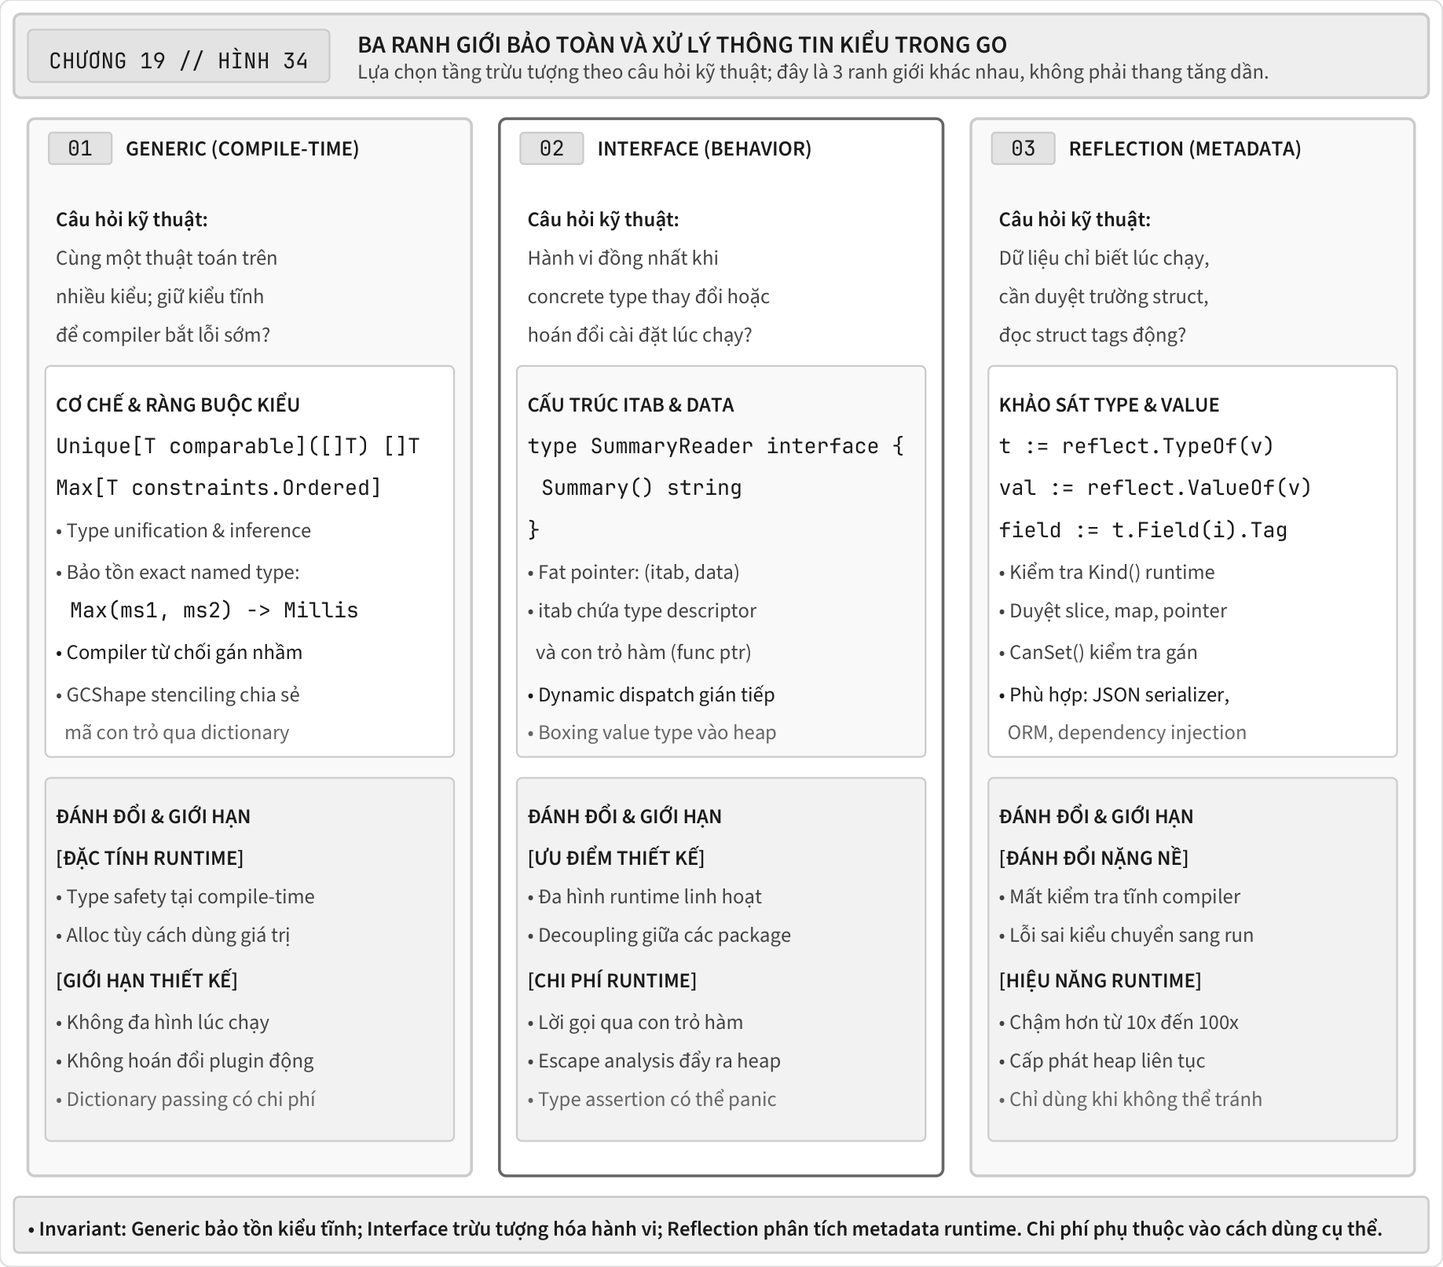
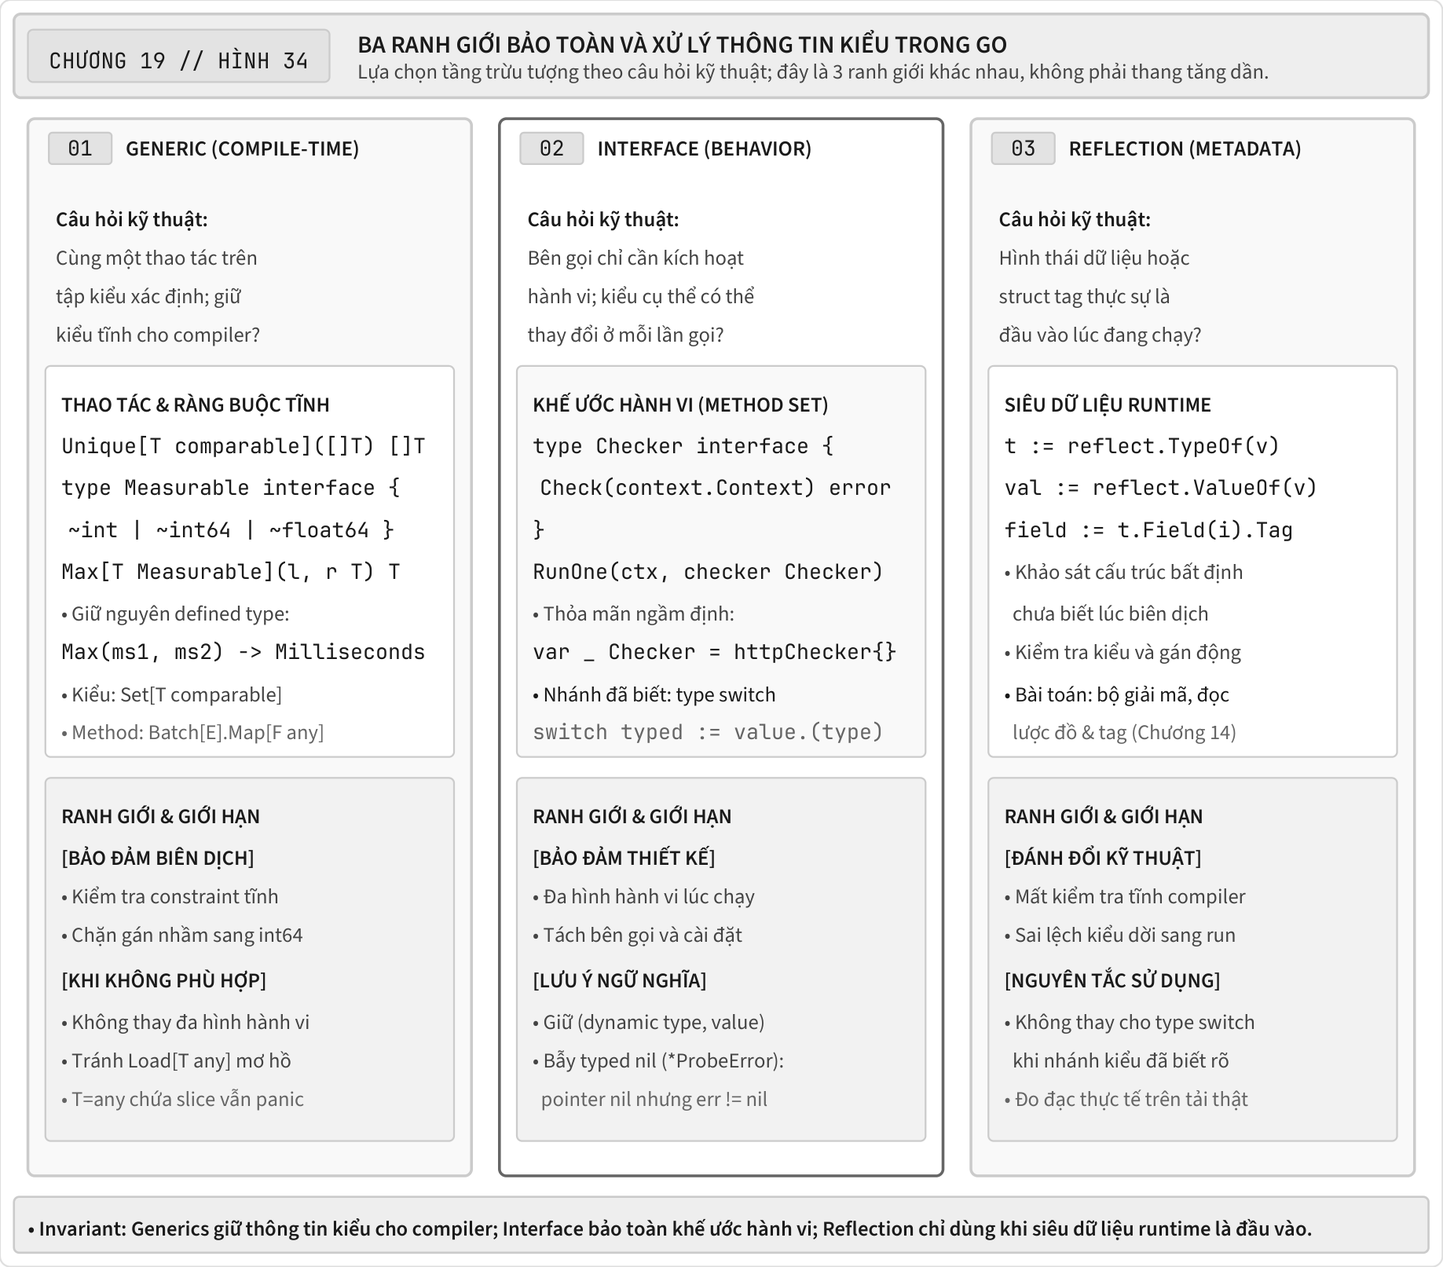
fix(ch19): rebuild Figure 34 (ISS-01) to match Chapter 19 type boundaries and remove unverified claims

diff --git a/scripts/ch19_29_vector_diagrams.py b/scripts/ch19_29_vector_diagrams.py
@@ -361,36 +361,36 @@ def build_type_information_boundaries_drawing(w: float = 413.18, h: float = 362.
     d.add(String(col1_x + 28.0, body_y + body_h - 10.5, "GENERIC (COMPILE-TIME)", fontName="BookSansBold", fontSize=6.1, fillColor=COLOR_INK_DARK))
 
     d.add(String(col1_x + 8.0, body_y + 272.0, "Câu hỏi kỹ thuật:", fontName="BookSansBold", fontSize=6.0, fillColor=COLOR_INK_DARK))
-    d.add(String(col1_x + 8.0, body_y + 261.0, "Cùng một thuật toán trên", fontName="BookSans", fontSize=6.0, fillColor=COLOR_INK_MID))
-    d.add(String(col1_x + 8.0, body_y + 250.0, "nhiều kiểu; giữ kiểu tĩnh", fontName="BookSans", fontSize=6.0, fillColor=COLOR_INK_MID))
-    d.add(String(col1_x + 8.0, body_y + 239.0, "để compiler bắt lỗi sớm?", fontName="BookSans", fontSize=6.0, fillColor=COLOR_INK_MID))
+    d.add(String(col1_x + 8.0, body_y + 261.0, "Cùng một thao tác trên", fontName="BookSans", fontSize=6.0, fillColor=COLOR_INK_MID))
+    d.add(String(col1_x + 8.0, body_y + 250.0, "tập kiểu xác định; giữ", fontName="BookSans", fontSize=6.0, fillColor=COLOR_INK_MID))
+    d.add(String(col1_x + 8.0, body_y + 239.0, "kiểu tĩnh cho compiler?", fontName="BookSans", fontSize=6.0, fillColor=COLOR_INK_MID))
 
     # Box 1A
     b1_h = 112.0
     b1_y = body_y + 120.0
     d.add(Rect(col1_x + 5.0, b1_y, col_w - 10.0, b1_h, fillColor=COLOR_WHITE, strokeColor=COLOR_BORDER, strokeWidth=0.5, rx=1.5, ry=1.5))
-    d.add(String(col1_x + 8.0, b1_y + 99.0, "CƠ CHẾ & RÀNG BUỘC KIỂU", fontName="BookSansBold", fontSize=6.0, fillColor=COLOR_INK_DARK))
-    d.add(String(col1_x + 8.0, b1_y + 87.0, "Unique[T comparable]([]T) []T", fontName="BookMono", fontSize=6.0, fillColor=COLOR_INK_DARK))
-    d.add(String(col1_x + 8.0, b1_y + 75.0, "Max[T constraints.Ordered]", fontName="BookMono", fontSize=6.0, fillColor=COLOR_INK_DARK))
-    d.add(String(col1_x + 8.0, b1_y + 63.0, "• Type unification & inference", fontName="BookSans", fontSize=6.0, fillColor=COLOR_INK_MID))
-    d.add(String(col1_x + 8.0, b1_y + 51.0, "• Bảo tồn exact named type:", fontName="BookSans", fontSize=6.0, fillColor=COLOR_INK_MID))
-    d.add(String(col1_x + 12.0, b1_y + 40.0, "Max(ms1, ms2) -> Millis", fontName="BookMono", fontSize=6.0, fillColor=COLOR_INK_DARK))
-    d.add(String(col1_x + 8.0, b1_y + 28.0, "• Compiler từ chối gán nhầm", fontName="BookSans", fontSize=6.0, fillColor=COLOR_INK_DARK))
-    d.add(String(col1_x + 8.0, b1_y + 16.0, "• GCShape stenciling chia sẻ", fontName="BookSans", fontSize=6.0, fillColor=COLOR_INK_MID))
-    d.add(String(col1_x + 8.0, b1_y + 5.0, "  mã con trỏ qua dictionary", fontName="BookSans", fontSize=6.0, fillColor=COLOR_INK_MUTED))
+    d.add(String(col1_x + 9.5, b1_y + 99.0, "THAO TÁC & RÀNG BUỘC TĨNH", fontName="BookSansBold", fontSize=6.0, fillColor=COLOR_INK_DARK))
+    d.add(String(col1_x + 9.5, b1_y + 87.0, "Unique[T comparable]([]T) []T", fontName="BookMono", fontSize=6.0, fillColor=COLOR_INK_DARK))
+    d.add(String(col1_x + 9.5, b1_y + 75.0, "type Measurable interface {", fontName="BookMono", fontSize=6.0, fillColor=COLOR_INK_DARK))
+    d.add(String(col1_x + 11.5, b1_y + 63.0, "~int | ~int64 | ~float64 }", fontName="BookMono", fontSize=6.0, fillColor=COLOR_INK_DARK))
+    d.add(String(col1_x + 9.5, b1_y + 51.0, "Max[T Measurable](l, r T) T", fontName="BookMono", fontSize=6.0, fillColor=COLOR_INK_DARK))
+    d.add(String(col1_x + 9.5, b1_y + 39.0, "• Giữ nguyên defined type:", fontName="BookSans", fontSize=6.0, fillColor=COLOR_INK_MID))
+    d.add(String(col1_x + 9.5, b1_y + 28.0, "Max(ms1, ms2) -> Milliseconds", fontName="BookMono", fontSize=6.0, fillColor=COLOR_INK_DARK))
+    d.add(String(col1_x + 9.5, b1_y + 16.0, "• Kiểu: Set[T comparable]", fontName="BookSans", fontSize=6.0, fillColor=COLOR_INK_MID))
+    d.add(String(col1_x + 9.5, b1_y + 5.0, "• Method: Batch[E].Map[F any]", fontName="BookSans", fontSize=6.0, fillColor=COLOR_INK_MUTED))
 
     # Box 1B
     b2_h = 104.0
     b2_y = body_y + 10.0
     d.add(Rect(col1_x + 5.0, b2_y, col_w - 10.0, b2_h, fillColor=COLOR_BG_SUBTLE, strokeColor=COLOR_BORDER, strokeWidth=0.5, rx=1.5, ry=1.5))
-    d.add(String(col1_x + 8.0, b2_y + 91.0, "ĐÁNH ĐỔI & GIỚI HẠN", fontName="BookSansBold", fontSize=6.0, fillColor=COLOR_INK_DARK))
-    d.add(String(col1_x + 8.0, b2_y + 79.0, "[ĐẶC TÍNH RUNTIME]", fontName="BookSansBold", fontSize=6.0, fillColor=COLOR_INK_DARK))
-    d.add(String(col1_x + 8.0, b2_y + 68.0, "• Type safety tại compile-time", fontName="BookSans", fontSize=6.0, fillColor=COLOR_INK_MID))
-    d.add(String(col1_x + 8.0, b2_y + 57.0, "• Alloc tùy cách dùng giá trị", fontName="BookSans", fontSize=6.0, fillColor=COLOR_INK_MID))
-    d.add(String(col1_x + 8.0, b2_y + 44.0, "[GIỚI HẠN THIẾT KẾ]", fontName="BookSansBold", fontSize=6.0, fillColor=COLOR_INK_DARK))
-    d.add(String(col1_x + 8.0, b2_y + 32.0, "• Không đa hình lúc chạy", fontName="BookSans", fontSize=6.0, fillColor=COLOR_INK_MID))
-    d.add(String(col1_x + 8.0, b2_y + 21.0, "• Không hoán đổi plugin động", fontName="BookSans", fontSize=6.0, fillColor=COLOR_INK_MID))
-    d.add(String(col1_x + 8.0, b2_y + 10.0, "• Dictionary passing có chi phí", fontName="BookSans", fontSize=6.0, fillColor=COLOR_INK_MUTED))
+    d.add(String(col1_x + 9.5, b2_y + 91.0, "RANH GIỚI & GIỚI HẠN", fontName="BookSansBold", fontSize=6.0, fillColor=COLOR_INK_DARK))
+    d.add(String(col1_x + 9.5, b2_y + 79.0, "[BẢO ĐẢM BIÊN DỊCH]", fontName="BookSansBold", fontSize=6.0, fillColor=COLOR_INK_DARK))
+    d.add(String(col1_x + 9.5, b2_y + 68.0, "• Kiểm tra constraint tĩnh", fontName="BookSans", fontSize=6.0, fillColor=COLOR_INK_MID))
+    d.add(String(col1_x + 9.5, b2_y + 57.0, "• Chặn gán nhầm sang int64", fontName="BookSans", fontSize=6.0, fillColor=COLOR_INK_MID))
+    d.add(String(col1_x + 9.5, b2_y + 44.0, "[KHI KHÔNG PHÙ HỢP]", fontName="BookSansBold", fontSize=6.0, fillColor=COLOR_INK_DARK))
+    d.add(String(col1_x + 9.5, b2_y + 32.0, "• Không thay đa hình hành vi", fontName="BookSans", fontSize=6.0, fillColor=COLOR_INK_MID))
+    d.add(String(col1_x + 9.5, b2_y + 21.0, "• Tránh Load[T any] mơ hồ", fontName="BookSans", fontSize=6.0, fillColor=COLOR_INK_MID))
+    d.add(String(col1_x + 9.5, b2_y + 10.0, "• T=any chứa slice vẫn panic", fontName="BookSans", fontSize=6.0, fillColor=COLOR_INK_MUTED))
 
     # Column 2: INTERFACE
     d.add(Rect(col2_x, body_y, col_w, body_h, fillColor=COLOR_WHITE, strokeColor=COLOR_BORDER_DARK, strokeWidth=0.8, rx=2, ry=2))
@@ -399,32 +399,32 @@ def build_type_information_boundaries_drawing(w: float = 413.18, h: float = 362.
     d.add(String(col2_x + 28.0, body_y + body_h - 10.5, "INTERFACE (BEHAVIOR)", fontName="BookSansBold", fontSize=6.1, fillColor=COLOR_INK_DARK))
 
     d.add(String(col2_x + 8.0, body_y + 272.0, "Câu hỏi kỹ thuật:", fontName="BookSansBold", fontSize=6.0, fillColor=COLOR_INK_DARK))
-    d.add(String(col2_x + 8.0, body_y + 261.0, "Hành vi đồng nhất khi", fontName="BookSans", fontSize=6.0, fillColor=COLOR_INK_MID))
-    d.add(String(col2_x + 8.0, body_y + 250.0, "concrete type thay đổi hoặc", fontName="BookSans", fontSize=6.0, fillColor=COLOR_INK_MID))
-    d.add(String(col2_x + 8.0, body_y + 239.0, "hoán đổi cài đặt lúc chạy?", fontName="BookSans", fontSize=6.0, fillColor=COLOR_INK_MID))
+    d.add(String(col2_x + 8.0, body_y + 261.0, "Bên gọi chỉ cần kích hoạt", fontName="BookSans", fontSize=6.0, fillColor=COLOR_INK_MID))
+    d.add(String(col2_x + 8.0, body_y + 250.0, "hành vi; kiểu cụ thể có thể", fontName="BookSans", fontSize=6.0, fillColor=COLOR_INK_MID))
+    d.add(String(col2_x + 8.0, body_y + 239.0, "thay đổi ở mỗi lần gọi?", fontName="BookSans", fontSize=6.0, fillColor=COLOR_INK_MID))
 
     # Box 2A
     d.add(Rect(col2_x + 5.0, b1_y, col_w - 10.0, b1_h, fillColor=COLOR_BG_CARD, strokeColor=COLOR_BORDER, strokeWidth=0.5, rx=1.5, ry=1.5))
-    d.add(String(col2_x + 8.0, b1_y + 99.0, "CẤU TRÚC ITAB & DATA", fontName="BookSansBold", fontSize=6.0, fillColor=COLOR_INK_DARK))
-    d.add(String(col2_x + 8.0, b1_y + 87.0, "type SummaryReader interface {", fontName="BookMono", fontSize=6.0, fillColor=COLOR_INK_DARK))
-    d.add(String(col2_x + 12.0, b1_y + 75.0, "Summary() string", fontName="BookMono", fontSize=6.0, fillColor=COLOR_INK_DARK))
-    d.add(String(col2_x + 8.0, b1_y + 63.0, "}", fontName="BookMono", fontSize=6.0, fillColor=COLOR_INK_DARK))
-    d.add(String(col2_x + 8.0, b1_y + 51.0, "• Fat pointer: (itab, data)", fontName="BookSans", fontSize=6.0, fillColor=COLOR_INK_MID))
-    d.add(String(col2_x + 8.0, b1_y + 40.0, "• itab chứa type descriptor", fontName="BookSans", fontSize=6.0, fillColor=COLOR_INK_MID))
-    d.add(String(col2_x + 8.0, b1_y + 28.0, "  và con trỏ hàm (func ptr)", fontName="BookSans", fontSize=6.0, fillColor=COLOR_INK_MID))
-    d.add(String(col2_x + 8.0, b1_y + 16.0, "• Dynamic dispatch gián tiếp", fontName="BookSans", fontSize=6.0, fillColor=COLOR_INK_DARK))
-    d.add(String(col2_x + 8.0, b1_y + 5.0, "• Boxing value type vào heap", fontName="BookSans", fontSize=6.0, fillColor=COLOR_INK_MUTED))
+    d.add(String(col2_x + 9.5, b1_y + 99.0, "KHẾ ƯỚC HÀNH VI (METHOD SET)", fontName="BookSansBold", fontSize=6.0, fillColor=COLOR_INK_DARK))
+    d.add(String(col2_x + 9.5, b1_y + 87.0, "type Checker interface {", fontName="BookMono", fontSize=6.0, fillColor=COLOR_INK_DARK))
+    d.add(String(col2_x + 11.5, b1_y + 75.0, "Check(context.Context) error", fontName="BookMono", fontSize=6.0, fillColor=COLOR_INK_DARK))
+    d.add(String(col2_x + 9.5, b1_y + 63.0, "}", fontName="BookMono", fontSize=6.0, fillColor=COLOR_INK_DARK))
+    d.add(String(col2_x + 9.5, b1_y + 51.0, "RunOne(ctx, checker Checker)", fontName="BookMono", fontSize=6.0, fillColor=COLOR_INK_DARK))
+    d.add(String(col2_x + 9.5, b1_y + 39.0, "• Thỏa mãn ngầm định:", fontName="BookSans", fontSize=6.0, fillColor=COLOR_INK_MID))
+    d.add(String(col2_x + 9.5, b1_y + 28.0, "var _ Checker = httpChecker{}", fontName="BookMono", fontSize=6.0, fillColor=COLOR_INK_DARK))
+    d.add(String(col2_x + 9.5, b1_y + 16.0, "• Nhánh đã biết: type switch", fontName="BookSans", fontSize=6.0, fillColor=COLOR_INK_DARK))
+    d.add(String(col2_x + 9.5, b1_y + 5.0, "switch typed := value.(type)", fontName="BookMono", fontSize=6.0, fillColor=COLOR_INK_MUTED))
 
     # Box 2B
     d.add(Rect(col2_x + 5.0, b2_y, col_w - 10.0, b2_h, fillColor=COLOR_BG_SUBTLE, strokeColor=COLOR_BORDER, strokeWidth=0.5, rx=1.5, ry=1.5))
-    d.add(String(col2_x + 8.0, b2_y + 91.0, "ĐÁNH ĐỔI & GIỚI HẠN", fontName="BookSansBold", fontSize=6.0, fillColor=COLOR_INK_DARK))
-    d.add(String(col2_x + 8.0, b2_y + 79.0, "[ƯU ĐIỂM THIẾT KẾ]", fontName="BookSansBold", fontSize=6.0, fillColor=COLOR_INK_DARK))
-    d.add(String(col2_x + 8.0, b2_y + 68.0, "• Đa hình runtime linh hoạt", fontName="BookSans", fontSize=6.0, fillColor=COLOR_INK_MID))
-    d.add(String(col2_x + 8.0, b2_y + 57.0, "• Decoupling giữa các package", fontName="BookSans", fontSize=6.0, fillColor=COLOR_INK_MID))
-    d.add(String(col2_x + 8.0, b2_y + 44.0, "[CHI PHÍ RUNTIME]", fontName="BookSansBold", fontSize=6.0, fillColor=COLOR_INK_DARK))
-    d.add(String(col2_x + 8.0, b2_y + 32.0, "• Lời gọi qua con trỏ hàm", fontName="BookSans", fontSize=6.0, fillColor=COLOR_INK_MID))
-    d.add(String(col2_x + 8.0, b2_y + 21.0, "• Escape analysis đẩy ra heap", fontName="BookSans", fontSize=6.0, fillColor=COLOR_INK_MID))
-    d.add(String(col2_x + 8.0, b2_y + 10.0, "• Type assertion có thể panic", fontName="BookSans", fontSize=6.0, fillColor=COLOR_INK_MUTED))
+    d.add(String(col2_x + 9.5, b2_y + 91.0, "RANH GIỚI & GIỚI HẠN", fontName="BookSansBold", fontSize=6.0, fillColor=COLOR_INK_DARK))
+    d.add(String(col2_x + 9.5, b2_y + 79.0, "[BẢO ĐẢM THIẾT KẾ]", fontName="BookSansBold", fontSize=6.0, fillColor=COLOR_INK_DARK))
+    d.add(String(col2_x + 9.5, b2_y + 68.0, "• Đa hình hành vi lúc chạy", fontName="BookSans", fontSize=6.0, fillColor=COLOR_INK_MID))
+    d.add(String(col2_x + 9.5, b2_y + 57.0, "• Tách bên gọi và cài đặt", fontName="BookSans", fontSize=6.0, fillColor=COLOR_INK_MID))
+    d.add(String(col2_x + 9.5, b2_y + 44.0, "[LƯU Ý NGỮ NGHĨA]", fontName="BookSansBold", fontSize=6.0, fillColor=COLOR_INK_DARK))
+    d.add(String(col2_x + 9.5, b2_y + 32.0, "• Giữ (dynamic type, value)", fontName="BookSans", fontSize=6.0, fillColor=COLOR_INK_MID))
+    d.add(String(col2_x + 9.5, b2_y + 21.0, "• Bẫy typed nil (*ProbeError):", fontName="BookSans", fontSize=6.0, fillColor=COLOR_INK_MID))
+    d.add(String(col2_x + 9.5, b2_y + 10.0, "  pointer nil nhưng err != nil", fontName="BookSans", fontSize=6.0, fillColor=COLOR_INK_MUTED))
 
     # Column 3: REFLECTION
     d.add(Rect(col3_x, body_y, col_w, body_h, fillColor=COLOR_BG_CARD, strokeColor=COLOR_BORDER, strokeWidth=0.8, rx=2, ry=2))
@@ -433,34 +433,34 @@ def build_type_information_boundaries_drawing(w: float = 413.18, h: float = 362.
     d.add(String(col3_x + 28.0, body_y + body_h - 10.5, "REFLECTION (METADATA)", fontName="BookSansBold", fontSize=6.1, fillColor=COLOR_INK_DARK))
 
     d.add(String(col3_x + 8.0, body_y + 272.0, "Câu hỏi kỹ thuật:", fontName="BookSansBold", fontSize=6.0, fillColor=COLOR_INK_DARK))
-    d.add(String(col3_x + 8.0, body_y + 261.0, "Dữ liệu chỉ biết lúc chạy,", fontName="BookSans", fontSize=6.0, fillColor=COLOR_INK_MID))
-    d.add(String(col3_x + 8.0, body_y + 250.0, "cần duyệt trường struct,", fontName="BookSans", fontSize=6.0, fillColor=COLOR_INK_MID))
-    d.add(String(col3_x + 8.0, body_y + 239.0, "đọc struct tags động?", fontName="BookSans", fontSize=6.0, fillColor=COLOR_INK_MID))
+    d.add(String(col3_x + 8.0, body_y + 261.0, "Hình thái dữ liệu hoặc", fontName="BookSans", fontSize=6.0, fillColor=COLOR_INK_MID))
+    d.add(String(col3_x + 8.0, body_y + 250.0, "struct tag thực sự là", fontName="BookSans", fontSize=6.0, fillColor=COLOR_INK_MID))
+    d.add(String(col3_x + 8.0, body_y + 239.0, "đầu vào lúc đang chạy?", fontName="BookSans", fontSize=6.0, fillColor=COLOR_INK_MID))
 
     # Box 3A
     d.add(Rect(col3_x + 5.0, b1_y, col_w - 10.0, b1_h, fillColor=COLOR_WHITE, strokeColor=COLOR_BORDER, strokeWidth=0.5, rx=1.5, ry=1.5))
-    d.add(String(col3_x + 8.0, b1_y + 99.0, "KHẢO SÁT TYPE & VALUE", fontName="BookSansBold", fontSize=6.0, fillColor=COLOR_INK_DARK))
-    d.add(String(col3_x + 8.0, b1_y + 87.0, "t := reflect.TypeOf(v)", fontName="BookMono", fontSize=6.0, fillColor=COLOR_INK_DARK))
-    d.add(String(col3_x + 8.0, b1_y + 75.0, "val := reflect.ValueOf(v)", fontName="BookMono", fontSize=6.0, fillColor=COLOR_INK_DARK))
-    d.add(String(col3_x + 8.0, b1_y + 63.0, "field := t.Field(i).Tag", fontName="BookMono", fontSize=6.0, fillColor=COLOR_INK_DARK))
-    d.add(String(col3_x + 8.0, b1_y + 51.0, "• Kiểm tra Kind() runtime", fontName="BookSans", fontSize=6.0, fillColor=COLOR_INK_MID))
-    d.add(String(col3_x + 8.0, b1_y + 40.0, "• Duyệt slice, map, pointer", fontName="BookSans", fontSize=6.0, fillColor=COLOR_INK_MID))
-    d.add(String(col3_x + 8.0, b1_y + 28.0, "• CanSet() kiểm tra gán", fontName="BookSans", fontSize=6.0, fillColor=COLOR_INK_MID))
-    d.add(String(col3_x + 8.0, b1_y + 16.0, "• Phù hợp: JSON serializer,", fontName="BookSans", fontSize=6.0, fillColor=COLOR_INK_DARK))
-    d.add(String(col3_x + 8.0, b1_y + 5.0, "  ORM, dependency injection", fontName="BookSans", fontSize=6.0, fillColor=COLOR_INK_MUTED))
+    d.add(String(col3_x + 9.5, b1_y + 99.0, "SIÊU DỮ LIỆU RUNTIME", fontName="BookSansBold", fontSize=6.0, fillColor=COLOR_INK_DARK))
+    d.add(String(col3_x + 9.5, b1_y + 87.0, "t := reflect.TypeOf(v)", fontName="BookMono", fontSize=6.0, fillColor=COLOR_INK_DARK))
+    d.add(String(col3_x + 9.5, b1_y + 75.0, "val := reflect.ValueOf(v)", fontName="BookMono", fontSize=6.0, fillColor=COLOR_INK_DARK))
+    d.add(String(col3_x + 9.5, b1_y + 63.0, "field := t.Field(i).Tag", fontName="BookMono", fontSize=6.0, fillColor=COLOR_INK_DARK))
+    d.add(String(col3_x + 9.5, b1_y + 51.0, "• Khảo sát cấu trúc bất định", fontName="BookSans", fontSize=6.0, fillColor=COLOR_INK_MID))
+    d.add(String(col3_x + 9.5, b1_y + 39.0, "  chưa biết lúc biên dịch", fontName="BookSans", fontSize=6.0, fillColor=COLOR_INK_MID))
+    d.add(String(col3_x + 9.5, b1_y + 28.0, "• Kiểm tra kiểu và gán động", fontName="BookSans", fontSize=6.0, fillColor=COLOR_INK_MID))
+    d.add(String(col3_x + 9.5, b1_y + 16.0, "• Bài toán: bộ giải mã, đọc", fontName="BookSans", fontSize=6.0, fillColor=COLOR_INK_DARK))
+    d.add(String(col3_x + 9.5, b1_y + 5.0, "  lược đồ & tag (Chương 14)", fontName="BookSans", fontSize=6.0, fillColor=COLOR_INK_MUTED))
 
     # Box 3B
     d.add(Rect(col3_x + 5.0, b2_y, col_w - 10.0, b2_h, fillColor=COLOR_BG_SUBTLE, strokeColor=COLOR_BORDER, strokeWidth=0.5, rx=1.5, ry=1.5))
-    d.add(String(col3_x + 8.0, b2_y + 91.0, "ĐÁNH ĐỔI & GIỚI HẠN", fontName="BookSansBold", fontSize=6.0, fillColor=COLOR_INK_DARK))
-    d.add(String(col3_x + 8.0, b2_y + 79.0, "[ĐÁNH ĐỔI NẶNG NỀ]", fontName="BookSansBold", fontSize=6.0, fillColor=COLOR_INK_DARK))
-    d.add(String(col3_x + 8.0, b2_y + 68.0, "• Mất kiểm tra tĩnh compiler", fontName="BookSans", fontSize=6.0, fillColor=COLOR_INK_MID))
-    d.add(String(col3_x + 8.0, b2_y + 57.0, "• Lỗi sai kiểu chuyển sang run", fontName="BookSans", fontSize=6.0, fillColor=COLOR_INK_MID))
-    d.add(String(col3_x + 8.0, b2_y + 44.0, "[HIỆU NĂNG RUNTIME]", fontName="BookSansBold", fontSize=6.0, fillColor=COLOR_INK_DARK))
-    d.add(String(col3_x + 8.0, b2_y + 32.0, "• Chậm hơn từ 10x đến 100x", fontName="BookSans", fontSize=6.0, fillColor=COLOR_INK_MID))
-    d.add(String(col3_x + 8.0, b2_y + 21.0, "• Cấp phát heap liên tục", fontName="BookSans", fontSize=6.0, fillColor=COLOR_INK_MID))
-    d.add(String(col3_x + 8.0, b2_y + 10.0, "• Chỉ dùng khi không thể tránh", fontName="BookSans", fontSize=6.0, fillColor=COLOR_INK_MUTED))
+    d.add(String(col3_x + 9.5, b2_y + 91.0, "RANH GIỚI & GIỚI HẠN", fontName="BookSansBold", fontSize=6.0, fillColor=COLOR_INK_DARK))
+    d.add(String(col3_x + 9.5, b2_y + 79.0, "[ĐÁNH ĐỔI KỸ THUẬT]", fontName="BookSansBold", fontSize=6.0, fillColor=COLOR_INK_DARK))
+    d.add(String(col3_x + 9.5, b2_y + 68.0, "• Mất kiểm tra tĩnh compiler", fontName="BookSans", fontSize=6.0, fillColor=COLOR_INK_MID))
+    d.add(String(col3_x + 9.5, b2_y + 57.0, "• Sai lệch kiểu dời sang run", fontName="BookSans", fontSize=6.0, fillColor=COLOR_INK_MID))
+    d.add(String(col3_x + 9.5, b2_y + 44.0, "[NGUYÊN TẮC SỬ DỤNG]", fontName="BookSansBold", fontSize=6.0, fillColor=COLOR_INK_DARK))
+    d.add(String(col3_x + 9.5, b2_y + 32.0, "• Không thay cho type switch", fontName="BookSans", fontSize=6.0, fillColor=COLOR_INK_MID))
+    d.add(String(col3_x + 9.5, b2_y + 21.0, "  khi nhánh kiểu đã biết rõ", fontName="BookSans", fontSize=6.0, fillColor=COLOR_INK_MID))
+    d.add(String(col3_x + 9.5, b2_y + 10.0, "• Đo đạc thực tế trên tải thật", fontName="BookSans", fontSize=6.0, fillColor=COLOR_INK_MUTED))
 
-    draw_footer_banner(d, w, "• Invariant: Generic bảo tồn kiểu tĩnh; Interface trừu tượng hóa hành vi; Reflection phân tích metadata runtime. Chi phí phụ thuộc vào cách dùng cụ thể.")
+    draw_footer_banner(d, w, "• Invariant: Generics giữ thông tin kiểu cho compiler; Interface bảo toàn khế ước hành vi; Reflection chỉ dùng khi siêu dữ liệu runtime là đầu vào.")
     return d
 
 
@@ -3228,6 +3228,7 @@ def verify_all_diagram_typography() -> bool:
     print("  [SCOPE] Visual inspection (manual QA): arrow clearances, sequence lifelines, line crossings, semantics.")
 
     active_targets = {
+        "type-information-boundaries.png",
         "webhook-hmac-verification.png",
         "webhook-delivery-deduplication.png",
         "change-evidence-gate.png",

diff --git a/scripts/test_publication_contracts.py b/scripts/test_publication_contracts.py
@@ -814,6 +814,65 @@ class PublicationContracts(unittest.TestCase):
         self.assertIsNone(re.search(r"\'[0-9]{1,2}:\s*package", fig_script), "Code block must not contain line number prefixes")
         self.assertIsNone(re.search(r"\'[0-9]{1,2}:\s*func", fig_script), "Code block must not contain line number prefixes")
 
+    def test_figure_34_semantic_and_identifier_contract(self):
+        import sys
+        sys.path.insert(0, str(Path("scripts").resolve()))
+        import ch19_29_vector_diagrams as vdiag
+        from reportlab.graphics.shapes import String
+
+        drawing = vdiag.build_type_information_boundaries_drawing()
+        texts = []
+
+        def collect_strings(node):
+            if isinstance(node, String):
+                texts.append(node.text)
+            elif hasattr(node, "contents"):
+                for child in node.contents:
+                    collect_strings(child)
+
+        collect_strings(drawing)
+        combined = "\n".join(texts)
+        combined_lower = combined.lower()
+
+        required_tokens = [
+            "Unique[T comparable]",
+            "Measurable",
+            "Max[T Measurable]",
+            "Milliseconds",
+            "Set[T comparable]",
+            "Batch[E].Map[F any]",
+            "Checker",
+            "RunOne",
+            "httpChecker",
+            "ProbeError",
+            "reflect.TypeOf",
+            "reflect.ValueOf",
+        ]
+        for token in required_tokens:
+            self.assertIn(token, combined, f"Figure 34 must contain Chapter 19 identifier '{token}'")
+
+        forbidden_tokens = [
+            "constraints.ordered",
+            "summaryreader",
+            "gcshape",
+            "stenciling",
+            "dictionary",
+            "itab",
+            "fat pointer",
+            "func ptr",
+            "boxing value type",
+            "escape analysis đẩy ra heap",
+            "cấp phát heap liên tục",
+            "10x",
+            "100x",
+            "cloneslice",
+            "maxordered",
+            "writesummary",
+            "decodepayload",
+        ]
+        for bad in forbidden_tokens:
+            self.assertNotIn(bad, combined_lower, f"Figure 34 must not contain unverified/contradictory claim '{bad}'")
+
 
 if __name__ == '__main__':
     unittest.main()
